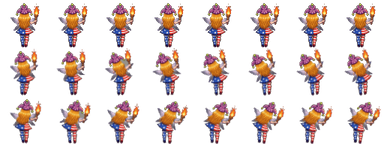
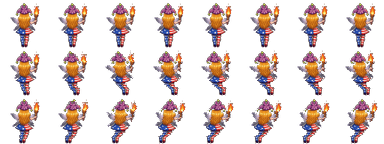
feat(clownpiece): bank by bending into PoFV's S-curve instead of tilting
Clownpiece's bank frames were her one upright frame tilted up to 12 degrees,
which read as a rigid lean. PoFV banks bend the body instead: the head leans
into the turn, the torso holds, the hips swing out, the knees come back and
the feet trail.

The cutter now slides each pixel row of the idle frame by whole pixels along
Reimu's bank profile, measured row by row from pl00.png, then adds a 3 degree
lean rotated at 8x with no blending so it adds no new colours. Both ease in
over the first frames of the row, like pl00's sprites 8-11.

diff --git a/MEMO.md b/MEMO.md
@@ -278,7 +278,7 @@
 
 - [ ] **Character #9: Clownpiece (TH15, not in PoFV)**. The first character with no PoFV original, so her playable kit (stats, shot, scope, charge, Extra Attack) has to be designed rather than read from a `plXX` file. Built **top down**: spellcards and the Lv4 boss first, from her Stage 5 fight in `C:\Users\Shrine\Desktop\th15_depot\` (`ecl/st05bs.ecl.txt`: non-spells `Boss1`-`Boss3`, spellcards `BossCard1`-`BossCard5`), then the lower tiers borrow their motifs, as Reisen's Extra Attack borrows her boss's moon.
   - [x] Phase 0: Skeleton, so spellcards can be playtested. `Slot9` on the carousel, registry / `get_character()` / card / framing entries, user-supplied Dairi portrait and silhouette. Placeholder stats (Reimu's PoFV 500 / 250, standard 3.0 hurtbox, charge 2.4; since 2026-09-25 Cirno's, as a fellow fairy, per the user: 634.5 / 445.5, 2.8 hurtbox, charge 1.74) and Reimu's amulet as the shot.
-    - Player sprite from a user-sourced AutoSprite sheet (4x4 of 128px on dithered grey), keyed and cut by `tools/generate_clownpiece_player_assets.gd` into 48x48 cells (wings do not fit 32). Idle is one still frame; the render's bank is only a head turn, so bank frames are tilted up to 12 degrees in the cutter. The user judged it weak; fine as a stand-in.
+    - Player sprite from a user-sourced AutoSprite sheet (4x4 of 128px on dithered grey), keyed and cut by `tools/generate_clownpiece_player_assets.gd` into 48x48 cells (wings do not fit 32). Idle is one still frame. Banks bend that frame into PoFV's soft S instead of rotating it (2026-09-26, the user's call from studying the official sheets): each pixel row slides by whole pixels along Reimu's bank profile measured from pl00.png (head leans into the turn, torso holds, hips swing out, knees return, feet trail), plus a 3 degree lean rotated without new colours, easing in like pl00 sprites 8-11. The user found it sells the bank; local AI generation (ComfyUI, tried the same night) could not beat the AutoSprite base, so it stays the source.
   - Kit agreed with the user (2026-09-24), reference footage `%USERPROFILE%\Desktop\clownpiece.mp4` (Lunatic): Lv4 = Hellfire "Infernal Essence of Grazing" (`BossCard3`, 24:43), Inferno "Striped Abyss" (`BossCard4`, 25:04, picked over the harder "Star and Stripe") and a giant-moon attack from Hell Sign "Eclipse of Hell" (`BossCard1`, 22:53). (Superseded 2026-09-25, see Phase 5: Lv2/Lv3 are Fake Apollo, the first non-spell's stars became the boss's Starry Illusion with its blue beams.) **Extra Attack = the red lasers aimed at the victim's last known position, 24:19 to 24:43 in the footage** (user, 2026-09-25; an earlier note put "red aimed lasers" in the first non-spell, which has only blue beams). Normal shot = star pellets. Charge attack undecided, to borrow a motif once the spells exist.
   - [x] Phase 1: Lv4 boss sheet. User-placed `enm5.png` (and `enm5b.png`, the 128px moon, for later) cut by `tools/generate_clownpiece_boss_sheet.gd` into 12 columns of 64x112: rows are the anm scripts' frame sequences (idle script 0, bank script 1 sprites 16-19, cast script 5 sprites 23-29), 96-tall frames centred because TH15 draws sprites centred. Scale 2.33 like the others; she is taller than Reimu in-sprite, which is authentic. Boss borrows Reisen's Rings of Red Bullets until her own attacks exist.
   - [x] Phase 2: Lv4 attack 1, Hellfire "Infernal Essence of Grazing" (`BossCard3`). New `DanmakuRepelRingStep` + `repel_*` fields on `DanmakuBullet` (TH15 ex 0x200000: repelled by the player). First animated bullet (`anim_frames` on `DanmakuBulletData`), the red flame from the user-placed TH15 bullet reference sheet. See `DANMAKU_CATALOG.md`. Playtest history: first found impossible (TH15 converted by width left the ring slow and the 2s repel window short), fixed by converting by field height (2.143); then the user rejected TH15's rule itself, since it only rewards meeting the ring high up the screen. Now the repel lasts the whole flight, reaches 64px (graze radius) at 150 px/s, under the ring's speed: a narrow gap that is always available, and standing still still gets hit. Still open: the ring reads as a dark band where TH15 glows additively. The version the user judged "on the edge of possible" (64px reach, 150 px/s) is Rank 16; rank eases it to 90px / 170 px/s at Rank 1 (every card must scale with rank, per the user). Ring spacing and Lunatic's inner ring stay out. 2026-09-25: a volley is now two rings 0.3s apart (a doubled ring) instead of three 2s apart, since three Hellfires in a row crowded out her other cards.
